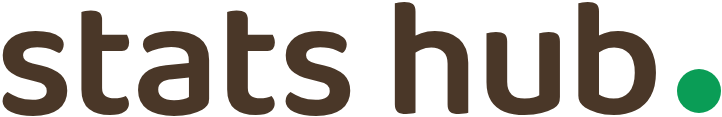
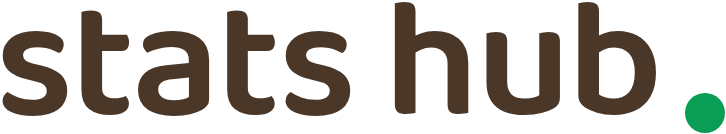
The review round: the word comes back to the circle, and a course gets its breakdown
Five changes from Big Dog's pass over the live site, one commit.

**The tab order is Home · Scoring · Leaderboard · Stats · Trip Setup** —
the leaderboard keeps the centre and the emphasis. **And it keeps its
label now**: the unlabelled circle was tried, the word was wanted back,
so the circle shrank from 48 to 36px to make the height for it. Both tab
shapes are bottom-anchored so all five labels sit on one line — centring
the taller circle stack had dropped its label 8px below the neighbours.
"Leaderboard" is the tight one at ~62px of a 64px column on a 320px
phone: measured, no clipping.

**The field's mini-bars moved off the names.** The track's left edge is
now the edge of the player column (45% across the row) with the zero line
at its centre — well right of the page's own middle — so a loss reaches
left without running beneath anybody's name.

**The stats page loses its title row.** The "stats hub." artwork in the
header is the title; an h1 saying Stats again under it was furniture.

**The Courses view is a breakdown now, not just the difficulty table.**
"The field here" leads: every player's Stableford points a round on that
course — points because the field spans every handicap on the trip and
points are the one figure that reads fair across it; per eighteen holes
so a second visit is compared by rate, not rewarded for volume. The
difficulty profile and table follow it.

**The title mark is redrawn against the supplied artwork** — the dot
[…]

diff --git a/app/components/TabBar.tsx b/app/components/TabBar.tsx
@@ -24,8 +24,8 @@ import {
  * instrument, and the bar took the YouTube shape at the same time: the
  * leaderboard in the middle, emphasised, because on a golf trip the board is
  * what everybody keeps coming back to. The centre tab draws as a filled
- * circle and carries no label — five labels do not fit a 320px phone, and
- * the one that had to go is the one whose button already says what it is.
+ * circle and keeps its label under it — the circle alone was tried and Big
+ * Dog wanted the word back, so the circle shrank to make the height for it.
  *
  * Rendered once, by `app/trip/[tripCode]/layout.tsx`, and never by a page.
  * That is what keeps it on screen through a navigation instead of unmounting
@@ -37,10 +37,10 @@ import {
 
 const ITEMS = [
   { key: 'home',        label: 'Home',        icon: IconHome,          path: (t: string) => `/trip/${t}` },
-  { key: 'settings',    label: 'Trip Setup',  icon: IconSettings,      path: (t: string) => `/trip/${t}/setup` },
-  { key: 'leaderboard', label: 'Leaderboard', icon: IconTrophy,        path: (t: string) => `/trip/${t}/leaderboard` },
   { key: 'scoring',     label: 'Scoring',     icon: IconClipboardList, path: (t: string) => `/trip/${t}/scoring` },
+  { key: 'leaderboard', label: 'Leaderboard', icon: IconTrophy,        path: (t: string) => `/trip/${t}/leaderboard` },
   { key: 'stats',       label: 'Stats',       icon: IconChartBar,      path: (t: string) => `/trip/${t}/stats` },
+  { key: 'settings',    label: 'Trip Setup',  icon: IconSettings,      path: (t: string) => `/trip/${t}/setup` },
 ] as const
 
 /**
@@ -87,27 +87,38 @@ function Tab({
 
   if (emphasis) {
     // The emphasised centre: an emerald circle with the trophy in it,
-    // tinted at rest and solid while you are there or on your way. No
-    // label — the aria-label on the link says it for a screen reader, and
-    // the circle says it for everyone else.
+    // tinted at rest and solid while you are there or on your way — and
+    // its name under it like every other tab, sized to still clear the
+    // bar's height with the circle above it.
     return (
       <span
         onPointerDown={() => setPressed(true)}
         onPointerUp={release}
         onPointerCancel={release}
         onPointerLeave={release}
-        className={`flex items-center justify-center h-16 transition-transform duration-150 ease-out ${
+        // Bottom-anchored like the plain tabs, so all five labels sit on
+        // one line — the circle is taller than an icon, and centring both
+        // stacks dropped this label 8px below its neighbours.
+        className={`flex flex-col items-center justify-end gap-1 h-16 pb-[9px] transition-transform duration-150 ease-out ${
           pressed ? 'tab-pressed' : ''
         } ${pending ? 'tab-pending' : ''}`}
       >
         <span
-          className={`flex items-center justify-center w-12 h-12 rounded-full transition-colors duration-150 ${
+          className={`flex items-center justify-center w-9 h-9 rounded-full transition-colors duration-150 ${
             lit
               ? 'bg-accent-deep text-white'
               : 'bg-accent/[0.12] text-accent-deep'
           }`}
         >
-          <Icon size={24} />
+          <Icon size={20} />
+        </span>
+        <span
+          className={`font-[family-name:var(--font-ui)] leading-none whitespace-nowrap ${
+            lit ? 'text-accent' : 'text-bark/60'
+          }`}
+          style={{ fontSize: 11, fontWeight: lit ? 600 : 400 }}
+        >
+          {label}
         </span>
       </span>
     )
@@ -122,15 +133,15 @@ function Tab({
       // leave the tab held down forever otherwise.
       onPointerCancel={release}
       onPointerLeave={release}
-      className={`flex flex-col items-center justify-center gap-1 h-16 transition-[color,transform] duration-150 ease-out ${
+      className={`flex flex-col items-center justify-end gap-1 h-16 pb-[9px] transition-[color,transform] duration-150 ease-out ${
         lit ? 'text-accent' : 'text-bark/60 hover:text-bark/80'
       } ${pressed ? 'tab-pressed' : ''} ${pending ? 'tab-pending' : ''}`}
     >
       <Icon size={20} />
       {/* The smallest type in the app, and the one place it is
-          justified: four labelled tabs across the narrowest phone —
-          the centre one carries no label, which is what made room
-          for a fifth tab at all. 11px, read at arm's length. */}
+          justified: five labels across the narrowest phone. 11px,
+          read at arm's length; "Leaderboard" is the tight one and
+          it is measured, not assumed, to clear its column. */}
       <span
         className="font-[family-name:var(--font-ui)] leading-none whitespace-nowrap"
         style={{ fontSize: 11, fontWeight: lit ? 600 : 400 }}
@@ -180,8 +191,6 @@ export default function TabBar({ tripCode }: { tripCode: string }) {
               <Link
                 href={item.path(tripCode)}
                 aria-current={active ? 'page' : undefined}
-                // The centre tab has no visible label, so the link says it.
-                aria-label={emphasis ? item.label : undefined}
                 // Left on the default, which warms the loading skeleton and
                 // the layout around it and stops there.
                 //

diff --git a/app/trip/[tripCode]/stats/panels.tsx b/app/trip/[tripCode]/stats/panels.tsx
@@ -11,7 +11,7 @@
  */
 
 import {
-  statsFor,
+  statsFor, playerStats,
   formatGained, formatRate, formatAverage,
   type HoleStat, type PlayerStats,
 } from '@/lib/holeStats'
@@ -353,7 +353,7 @@ function Rounds({ stats, playerId, rounds, courseFor, courseName }: {
  * the emerald/rust only agrees with it, because that pair is exactly the
  * red/green a colour-blind reader cannot split.
  */
-function RankedBox({ title, hint, rows, meId, aside }: {
+export function RankedBox({ title, hint, rows, meId, aside }: {
   title: string
   hint?: string
   rows: {
@@ -388,7 +388,11 @@ function RankedBox({ title, hint, rows, meId, aside }: {
             </span>
           </div>
           {r.share != null && (
-            <div className="relative h-1 mt-1.5 ml-10" aria-hidden="true">
+            // The track lives to the right of the names, not under them: its
+            // left edge is the edge of the player column, and the zero line
+            // sits at its centre — well right of the page's own middle — so
+            // a loss can reach left without running beneath anybody's name.
+            <div className="relative h-1 mt-1.5 ml-[45%]" aria-hidden="true">
               <div className="absolute inset-y-0 left-1/2 w-px bg-bark/25" />
               <div
                 className={`absolute inset-y-0 rounded-full ${
@@ -401,6 +405,46 @@ function RankedBox({ title, hint, rows, meId, aside }: {
         </div>
       ))}
     </Panel>
+  )
+}
+
+/**
+ * Who owns a course — the per-course breakdown of the field.
+ *
+ * Stableford points a round rather than gross to par, because the field
+ * spans every handicap on the trip and points are the one figure that
+ * reads fair across it. Per eighteen holes, so a player who came back for
+ * a second round is compared by rate rather than rewarded for volume.
+ */
+export function CourseField({ stats, nameOf, meId }: {
+  /** Already narrowed to the one course. */
+  stats: HoleStat[]
+  nameOf: Map<string, string>
+  meId: string | null
+}) {
+  const field = playerStats(stats)
+  const name = (id: string) => nameOf.get(id) ?? 'Unknown'
+  const raw = field
+    .filter(p => p.holes > 0)
+    .map(p => ({
+      p,
+      per18: (p.form.reduce((n, r) => n + r.points, 0) / p.holes) * 18,
+    }))
+    .sort((a, b) => b.per18 - a.per18 || name(a.p.playerId).localeCompare(name(b.p.playerId)))
+  if (raw.length === 0) return null
+
+  return (
+    <RankedBox
+      title="The field here"
+      hint="Stableford points a round on this course — handicaps included, so it reads fair across the field."
+      rows={raw.map(({ p, per18 }) => ({
+        id: p.playerId,
+        name: name(p.playerId),
+        note: `${p.holes} holes`,
+        figure: formatAverage(per18),
+      }))}
+      meId={meId}
+    />
   )
 }
 

diff --git a/scripts/test-branding.tsx b/scripts/test-branding.tsx
@@ -417,20 +417,19 @@ section('The bottom tab bar')
   // because it is what everybody on a golf trip keeps coming back to.
   eq(
     (src.match(/label: '([^']+)'/g) ?? []).map(s => s.replace(/label: '|'/g, '')),
-    ['Home', 'Trip Setup', 'Leaderboard', 'Scoring', 'Stats'],
+    ['Home', 'Scoring', 'Leaderboard', 'Stats', 'Trip Setup'],
     'five items, leaderboard centred',
   )
   ok(src.includes('grid-cols-5'), 'the grid matches the count')
 
-  // The centre tab is the one drawn as a filled circle and the one with no
-  // visible label — five labels do not fit a 320px phone, and the dropped
-  // one is the tab whose button already says what it is. A screen reader
-  // still hears it, off the link itself.
+  // The centre tab draws as a filled circle and keeps its label under it —
+  // the unlabelled circle was tried and the word came back by request, so
+  // the circle shrank to make the height for it.
   ok(/emphasis = item\.key === 'leaderboard'/.test(src),
     'the emphasis is the leaderboard’s')
-  ok(/aria-label=\{emphasis \? item\.label : undefined\}/.test(src),
-    '  …and the unlabelled circle still says its name to a screen reader')
   ok(/rounded-full/.test(src), '  …drawn as a circle')
+  ok(src.slice(src.indexOf('if (emphasis)')).includes('{label}'),
+    '  …with its name under the circle like every other tab')
 
   ok(src.includes('fixed bottom-0'), 'fixed to the bottom of the viewport')
   ok(src.includes('env(safe-area-inset-bottom)'),
@@ -441,10 +440,9 @@ section('The bottom tab bar')
   // "Labels must fit on one line — test Leaderboard specifically"
   ok(src.includes('whitespace-nowrap'), 'labels never wrap')
   // 11px, up from 10 with the rest of the small end. Five columns on a
-  // 320px screen leave 64px each; "Leaderboard" would not fit, and it is
-  // exactly the label the unlabelled centre circle removed. The longest
-  // left is "Trip Setup", about 54px in Archivo at 11 — it fits.
-  ok(src.includes('fontSize: 11'), 'at 11px, which still lets Trip Setup fit')
+  // 320px screen leave 64px each; "Leaderboard" is about 62px of that in
+  // Archivo at 11 — the tight one, measured rather than assumed.
+  ok(src.includes('fontSize: 11'), 'at 11px, which still lets Leaderboard fit')
   ok(src.includes('size={20}'), 'with 20px icons')
 
   ok(src.includes("'text-accent'"), 'the active tab is emerald')

diff --git a/app/trip/[tripCode]/stats/page.tsx b/app/trip/[tripCode]/stats/page.tsx
@@ -4,7 +4,6 @@ import { fetchTripStats } from '@/lib/hubStanding'
 import { coverage } from '@/lib/holeStats'
 import { tripState, todayString } from '@/lib/tripStatus'
 import { currentPlayer } from '@/lib/currentPlayer'
-import BackButton from '@/app/components/BackButton'
 import SupportLink from '@/app/components/SupportLink'
 import TripHeader from '@/app/components/TripHeader'
 import { EmptyState } from '@/app/components/ui'
@@ -58,16 +57,8 @@ export default async function StatsPage({
     <div className="min-h-dvh bg-cream has-tabbar page-enter text-ink">
       <TripHeader backTo={`/trip/${tripCode}`} title="statsHub" />
 
-      <div className="bg-cream border-b border-bark/12">
-        <div className="max-w-lg mx-auto px-4 py-5 flex items-center justify-between">
-          <BackButton href={`/trip/${tripCode}`} />
-          <h1 className="font-[family-name:var(--font-display)] text-xl sm:text-2xl text-ink tracking-wide truncate px-2">
-            Stats
-          </h1>
-          <div className="w-11" />
-        </div>
-      </div>
-
+      {/* No page-title row: the header's "stats hub." artwork is the title,
+          and it already carries the way back. */}
       <div className="max-w-lg mx-auto px-4 py-6">
         {error ? (
           // Said out loud rather than rendered as an absence: an empty table

diff --git a/app/trip/[tripCode]/stats/StatsClient.tsx b/app/trip/[tripCode]/stats/StatsClient.tsx
@@ -9,7 +9,7 @@ import {
 } from '@/lib/holeStats'
 import { tripAwards } from '@/lib/tripAwards'
 import { HEADER_H } from '@/app/components/headerMetrics'
-import { PlayerPanels, EveryonePanels } from './panels'
+import { PlayerPanels, EveryonePanels, CourseField } from './panels'
 import { GainedByRoundChart, DifficultyProfileChart, type GainedBar } from './charts'
 import type { RowHole, RowRound } from '@/lib/boardRows'
 
@@ -262,10 +262,20 @@ export default function StatsClient({
       )}
 
       {view === 'courses' && shownCourse && (
-        <Course
-          rows={difficulty.filter(r => r.courseId === shownCourse)}
-          title={courseName.get(shownCourse) ?? 'The course'}
-        />
+        <>
+          {/* The per-course breakdown: who owns this course, then how the
+              course fought back. Full-trip stats, untouched by the Players
+              view's course filter — this view has its own selector. */}
+          <CourseField
+            stats={stats.filter(s => s.courseId === shownCourse)}
+            nameOf={nameOf}
+            meId={meId}
+          />
+          <Course
+            rows={difficulty.filter(r => r.courseId === shownCourse)}
+            title={courseName.get(shownCourse) ?? 'The course'}
+          />
+        </>
       )}
     </div>
   )

diff --git a/scripts/test-stats.tsx b/scripts/test-stats.tsx
@@ -965,6 +965,13 @@ section('The lab reads the derivation and does none of its own')
   // The page has a name now, set as artwork like the other three, and the
   // loading state wears the same one so arriving does not change the header.
   ok(page.includes('title="statsHub"'), 'the header says stats hub')
+  // …and only there: the h1 row under it said "Stats" a second time, and
+  // went by request.
+  ok(!page.includes('<h1'), 'no page-title row repeats what the artwork says')
+  // The Courses view is a breakdown, not just the difficulty table: the
+  // field on that course leads, ranked by the one figure fair across every
+  // handicap on the trip.
+  ok(/CourseField/.test(client), 'the courses view carries the field on that course')
   ok(code('app/trip/[tripCode]/stats/loading.tsx').includes('title="statsHub"'),
     '  …and the skeleton already says it')
   ok(code('app/components/TitleMark.tsx').includes('statsHub'),

diff --git a/app/components/TitleMark.tsx b/app/components/TitleMark.tsx
@@ -26,7 +26,7 @@ export const TITLE_MARKS = {
   // A stand-in drawn in a close face, not the supplied lettering — Big
   // Dog's artwork replaces the file (same proportions) and nothing here
   // has to change beyond the ratio.
-  statsHub:    { src: '/title-stats-hub.png',   ratio: 0.1620, alt: 'stats hub.' },
+  statsHub:    { src: '/title-stats-hub.png',   ratio: 0.1846, alt: 'stats hub.' },
   // Drawn and kept, but not in use — the trip hub shows the green dot mark.
   trip:        { src: '/title-trip.png',        ratio: 0.5957, alt: 'trip.' },
 } as const

diff --git a/CLAUDE.md b/CLAUDE.md
@@ -97,7 +97,7 @@ Don't read these up front. Open the matching file when the task actually touches
 | `app/components/Section.tsx` | The collapsible hub sections. One open at a time — the stack owns that, not the section |
 | `app/trip/[tripCode]/layout.tsx` | The bottom bar, drawn **once for the whole trip subtree and never by a page**. A page that renders its own tears the bar off the screen on every navigation, because a component rendered by a page unmounts with it. Pages still carry `has-tabbar` — the page is what scrolls |
 | `app/trip/[tripCode]/**/loading.tsx` | Why a tab feels instant. Without a loading file Next holds the current page, fully painted, until the next one's queries come back — and every trip route is `force-dynamic`, so that was seconds of a screen that gave no sign of having been tapped. It is also the only part of these routes a prefetch can warm. Six of them; `docs/design-system.md` has the split and the rule about not promising a shape |
-| `app/components/TabBar.tsx` | The five tabs — leaderboard centred and emphasised, a trial; the circle has no visible label. **A tab lights on `active` *or* `pending`** — `active` comes from the pathname, which does not change until the destination has rendered on the server, so lighting on it alone means the tap looks like nothing for as long as the query takes |
+| `app/components/TabBar.tsx` | The five tabs — leaderboard centred and emphasised, a trial; the circle carries its label under it. **A tab lights on `active` *or* `pending`** — `active` comes from the pathname, which does not change until the destination has rendered on the server, so lighting on it alone means the tap looks like nothing for as long as the query takes |
 | `lib/currentPlayer.ts` | Cookie → the player holding this phone, matched against this trip's roster. **Personalises, never authorises**. Read on the server by the hub, the stats page and a round summary — so **anything that changes the cookie must `router.refresh()` before it navigates**, or the router serves back a page it rendered for whoever this device was a moment ago. That is the whole of the "claiming doesn't stick" bug, and the cookie was never the part that was wrong. For the same reason **no link may force a full `prefetch` of those three routes** |
 | `lib/roundHandicaps.ts` | The `round_handicaps` snapshot, written on a handicap edit and when somebody joins after the rounds exist |
 | `lib/teamLimits.ts` | Team size rules, pairing wording |

diff --git a/docs/design-system.md b/docs/design-system.md
@@ -125,7 +125,7 @@ The create wizard keeps a **step**-back on steps 2 and 3, which is a different t
 
 ### Navigation
 
-Bottom tab bar, `app/components/TabBar.tsx` — Home · Trip Setup · **Leaderboard** · Scoring · Stats, scoped to a trip. Five tabs on trial, the YouTube shape: the leaderboard centred and emphasised — a filled emerald circle, tinted at rest and solid when lit — because it is the screen everybody keeps coming back to. The circle carries no visible label (five labels do not fit a 320px phone, and the dropped one is the tab whose button already says what it is); the link's `aria-label` says it to a screen reader. The other four labels are 11px. Fixed to the bottom with `env(safe-area-inset-bottom)`; without that the bottom row of taps lands on the iPhone home indicator. Pages carrying it add `has-tabbar` for clearance.
+Bottom tab bar, `app/components/TabBar.tsx` — Home · Scoring · **Leaderboard** · Stats · Trip Setup, scoped to a trip. Five tabs on trial, the YouTube shape: the leaderboard centred and emphasised — a filled emerald circle, tinted at rest and solid when lit — because it is the screen everybody keeps coming back to. The circle keeps its label under it (the unlabelled circle was tried; the word came back by request, and the circle shrank to make the height). All five labels are 11px; "Leaderboard" is the tight one at ~62px of a 64px column on a 320px phone, measured rather than assumed. Fixed to the bottom with `env(safe-area-inset-bottom)`; without that the bottom row of taps lands on the iPhone home indicator. Pages carrying it add `has-tabbar` for clearance.
 
 Deliberately **absent from the scoring flow**, where the bottom of the screen is score entry and a nav bar under it is a mis-tap waiting to happen.
 
